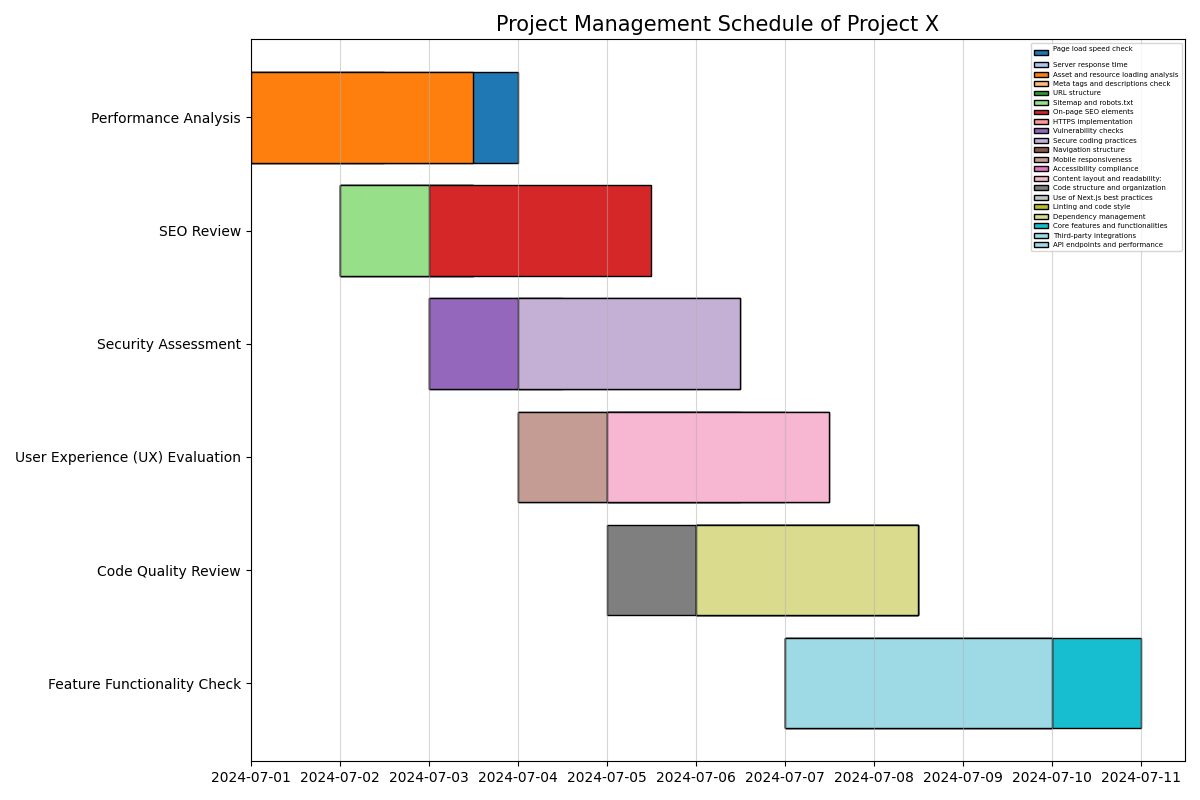
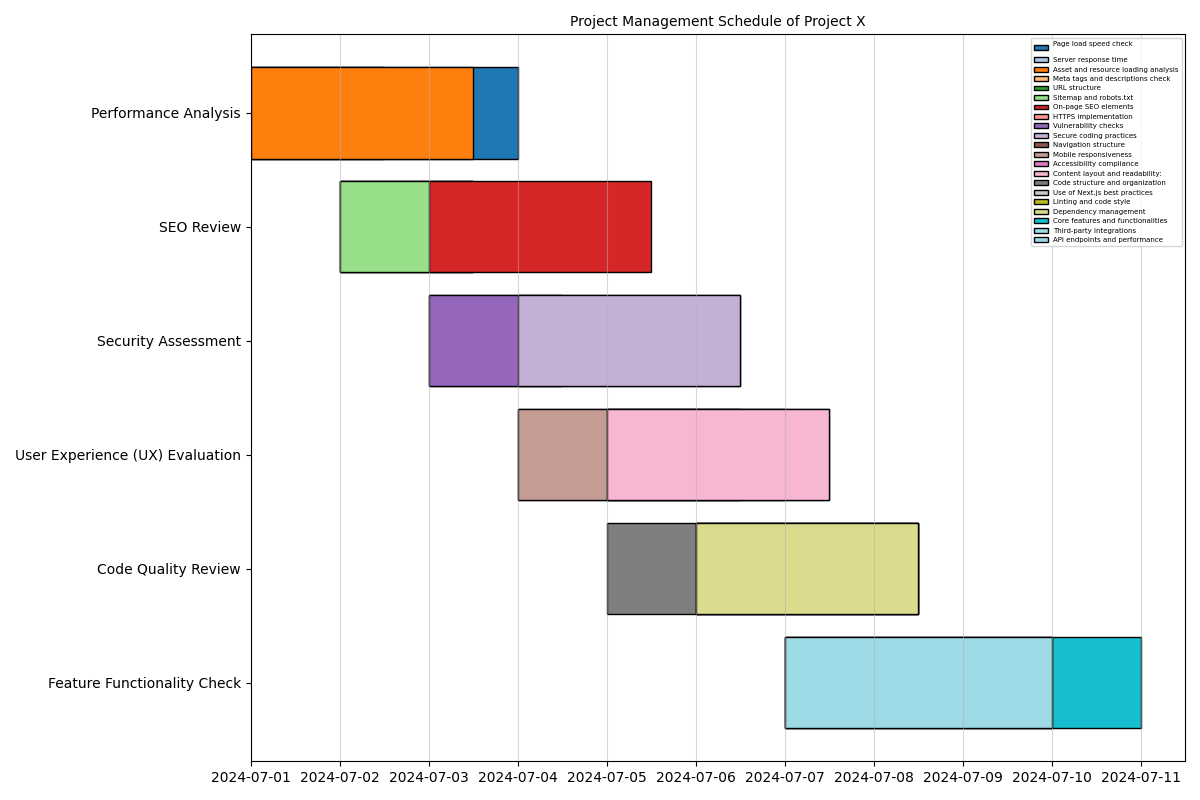
big update but that weird

diff --git a/templates/show_data.html b/templates/show_data.html
@@ -3,33 +3,69 @@
 <head>
     <meta charset="UTF-8">
     <meta name="viewport" content="width=device-width, initial-scale=1.0">
-    <title>Data from Google Sheets</title>
+    <title>Show Data</title>
     <style>
-        body {
-            font-family: Arial, sans-serif;
-            margin: 20px;
-        }
         table {
             width: 100%;
             border-collapse: collapse;
         }
-        table, th, td {
-            border: 1px solid #ddd;
-        }
         th, td {
+            border: 1px solid #ddd;
             padding: 8px;
             text-align: left;
         }
         th {
             background-color: #f2f2f2;
         }
-        tr:nth-child(even) {
-            background-color: #f9f9f9;
+        .group-header {
+            background-color: #e0e0e0;
+            font-weight: bold;
+        }
+
+        thead {
+            position: sticky;
+            top: 0;
+            background-color: #f2f2f2; /* Same as the background of th */
+            z-index: 10; /* Ensure the header is above the table body */
         }
     </style>
 </head>
 <body>
-    <h1>Project Timeline</h1>
-    <img src="{{ url_for('static', filename='gantt_chart.png') }}" alt="Gantt Chart">
+    <h1>Data Table</h1>
+    <table class="timeline">
+        <thead>
+            <tr>
+                <th>No</th>
+                <th>Task</th>
+                <th>Estimated time (hours)</th>
+                <th>1</th>
+                <th>2</th>
+                <th>3</th>
+                <th>4</th>
+                <th>5</th>
+                <th>6</th>
+                <th>7</th>
+            </tr>
+        </thead>
+        <tbody>
+                {% for group in data %}
+                    <tr>
+                        <td>{{ group[0] }}</td>
+                        <td>{{ group[1] }}</td>
+                        <td>{{ group[4] }}</td>
+
+                        {% for i in range(1, 8) %}
+                            <td>
+                                {% if group[0] | int == i %}
+                                    {{ group[2] }}
+                                {% else %}
+
+                                {% endif %}
+                            </td>
+                        {% endfor %}
+                    </tr>
+                {% endfor %}
+        </tbody>
+    </table>
 </body>
 </html>

diff --git a/app.py b/app.py
@@ -128,22 +128,21 @@ def read_sheet(file_id):
         # Đọc dữ liệu từ sheet đầu tiên
         if sheet_names:
             sheet_name = sheet_names[0]
-            range_name = f"{sheet_name}!A1:Z1000"
+            range_name = f"{sheet_name}!C3:M30"
             sheet = sheets_service.spreadsheets().values().get(spreadsheetId=file_id, range=range_name).execute()
             values = sheet.get('values', [])
-            print(values)
         else:
             return "No sheets found in the spreadsheet."
 
         # Tạo sheet mới bên cạnh sheet đầu tiên và chèn dữ liệu
         create_sheet_next_to_existing(sheets_service, file_id, sheet_name, values)
-
+        print(values)
         # Lưu dữ liệu vào MongoDB
-        if values:
-            for row in values:
-                collection.insert_one({'data': row})
+        # if values:
+        #     for row in values:
+        #         collection.insert_one({'data': row})
+
         # Trả về dữ liệu qua template
-        createDiagram(values, filename='static/gantt_chart.png')
         return render_template('show_data.html', data=values)
     except HttpError as error:
         print(f"An error occurred while reading sheet: {error}")
@@ -344,7 +343,7 @@ def createDiagram(values, filename='static/gantt_chart.png'):
         patches.append(patch)
 
     # Thiết lập tiêu đề
-    plt.title('Project Management Schedule of Project X', fontsize=15)
+    plt.title('Project Management Schedule of Project X', fontsize=10)
 
     # Định dạng trục x
     ax.xaxis_date()
